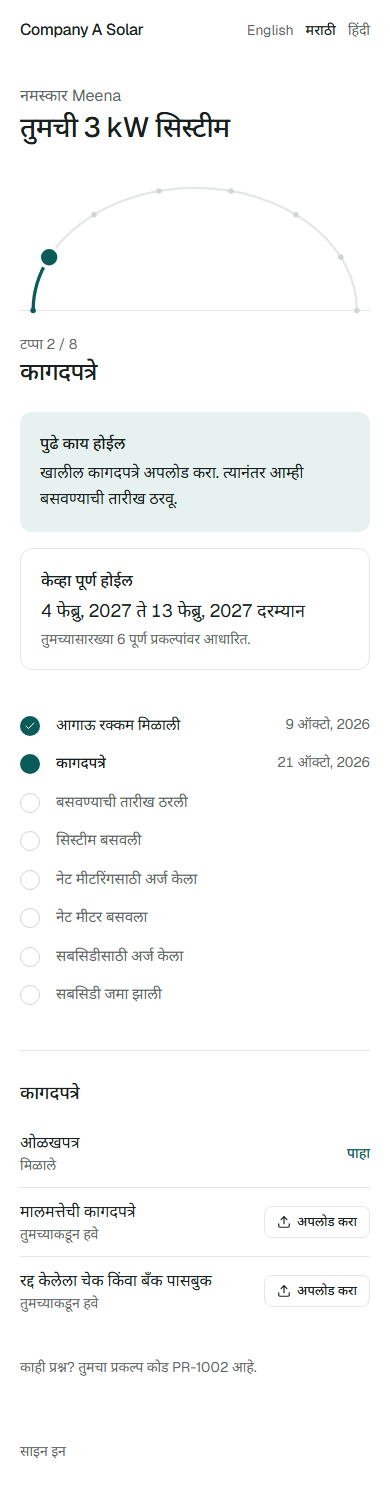
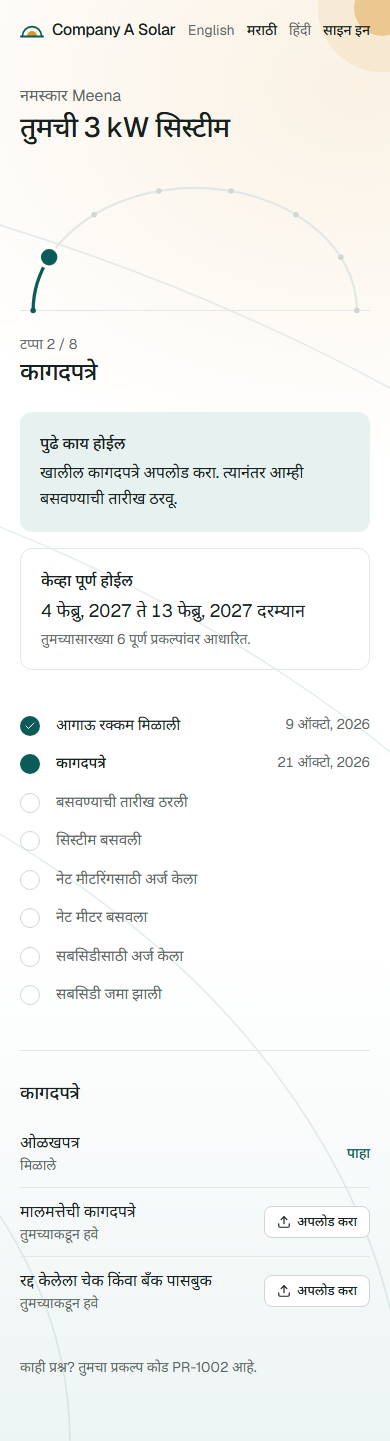
docs: refresh screenshots and record the new form behaviour

diff --git a/e2e/screens.spec.ts b/e2e/screens.spec.ts
@@ -19,6 +19,8 @@ async function shoot(page: Page, name: string, path?: string) {
     await page.setViewportSize({ width, height });
     if (path) await page.goto(path);
     await page.waitForTimeout(1300);
+    // A full-page capture would stop a fixed backdrop at the first screen.
+    await page.addStyleTag({ content: ".sun-backdrop { position: absolute !important; }" });
     await page.screenshot({ path: `${OUT}/${name}-${label}.png`, fullPage: true });
   }
 }

diff --git a/docs/ASSUMPTIONS.md b/docs/ASSUMPTIONS.md
@@ -52,3 +52,4 @@ Anything not stated in the client brief is listed here. Code comments and the TD
 | A46 | The photo check warns under 450 px on the short side, under brightness 70, or under sharpness 20. It never blocks. | Set from test images: Gemini still read bills at sharpness 35 and brightness 114, so warnings must not be strict. | `lib/photo-check.ts` |
 | A47 | Lookalike bills copy the layout of published bills with fictional details, tariff-correct numbers, a SAMPLE stamp, and no logo, QR code or barcode. | They give many cases with exact answers, without using anyone's data. They are reported apart from real bills. | `scripts/bills/lookalikes.ts` |
 | A48 | One address gets 5 real bill reads a day. Past that a bill goes to manual entry and the file is kept. | Stops one person using up the free quota. People sharing a network share the limit, and someone changing address can still get past it. | `server/leads.ts` |
+| A49 | The lead form keeps answers in the browser tab until it is submitted, except consent, which is asked again. | Changing language would otherwise empty the form. Nothing is stored until the homeowner submits, and closing the tab clears it. | `components/public/lead-form.tsx` |

diff --git a/docs/TDD.md b/docs/TDD.md
@@ -371,7 +371,7 @@ The riskiest logic gets the most tests.
 
 | Layer | Tool | Count | Covers |
 |---|---|---|---|
-| Domain and reader | Vitest | 218 | Everything before, plus real-bill tariff reproduction, usage years, bill projection, blockers and name matching, the savings promise, forecasts, roof geometry, photo check and accuracy scoring |
+| Domain and reader | Vitest | 223 | Everything before, plus real-bill tariff reproduction, usage years, bill projection, blockers and name matching, the savings promise, forecasts, roof geometry, photo check and accuracy scoring |
 | End to end | Playwright | 31 | Everything before, plus a Marathi bill to a year of bills, a peak May bill, blockers for homeowner and staff, the photo check and two-sided upload, roof map to surveyor, the family card, a bill after solar through to staff, forecasts, and tariff overlap |
 | CI | GitHub Actions | On every push | Lint, typecheck, unit tests, migrations, seed, build and E2E against Postgres with the mock reader |
 
